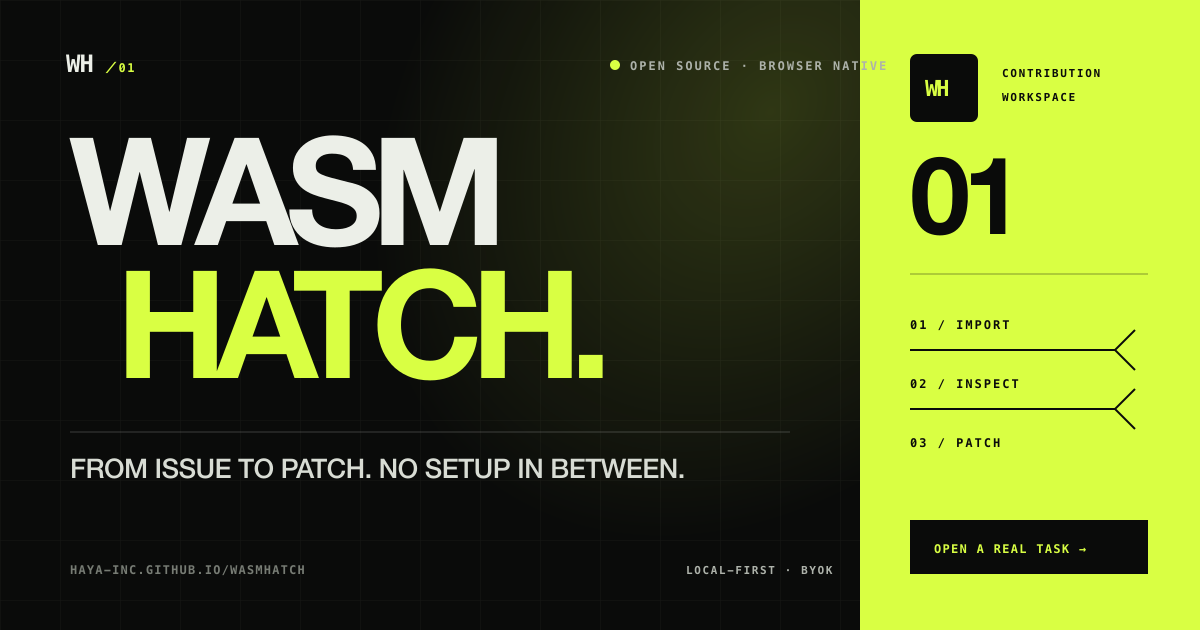
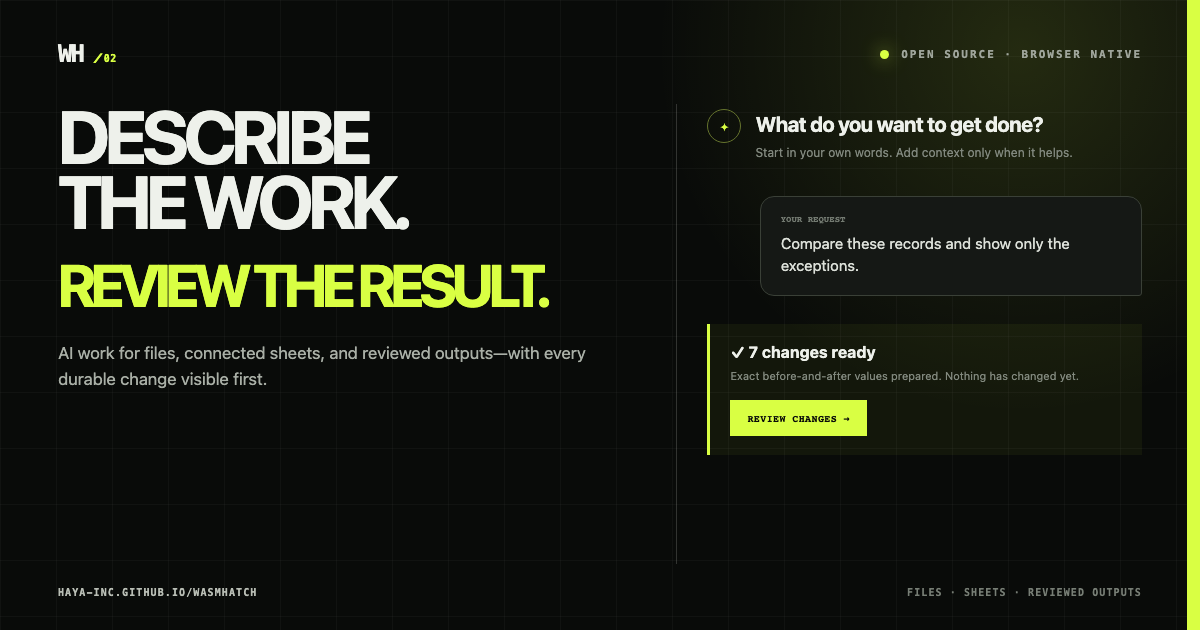
Align social preview with general work

diff --git a/src/meta.test.ts b/src/meta.test.ts
@@ -38,6 +38,17 @@ describe("public sharing metadata", () => {
     expect(png.byteLength).toBeGreaterThan(20_000);
   });
 
+  it("keeps the social preview reproducible and aligned with general work", () => {
+    const packageJson = JSON.parse(readFileSync("package.json", "utf8")) as { scripts?: Record<string, string> };
+    const renderer = readFileSync("scripts/render-social-preview.mjs", "utf8");
+
+    expect(packageJson.scripts?.["render:social"]).toBe("node scripts/render-social-preview.mjs");
+    expect(renderer).toContain("<span>Describe</span><span>the work.</span>");
+    expect(renderer).toContain("<em>Review the result.</em>");
+    expect(renderer).toContain("Compare these records and show only the exceptions.");
+    expect(renderer).not.toContain("FROM ISSUE TO PATCH");
+  });
+
   it("keeps public runtime claims aligned with the shipped architecture", () => {
     const readme = readFileSync("README.md", "utf8");
     const plan = readFileSync("docs/plan.md", "utf8");